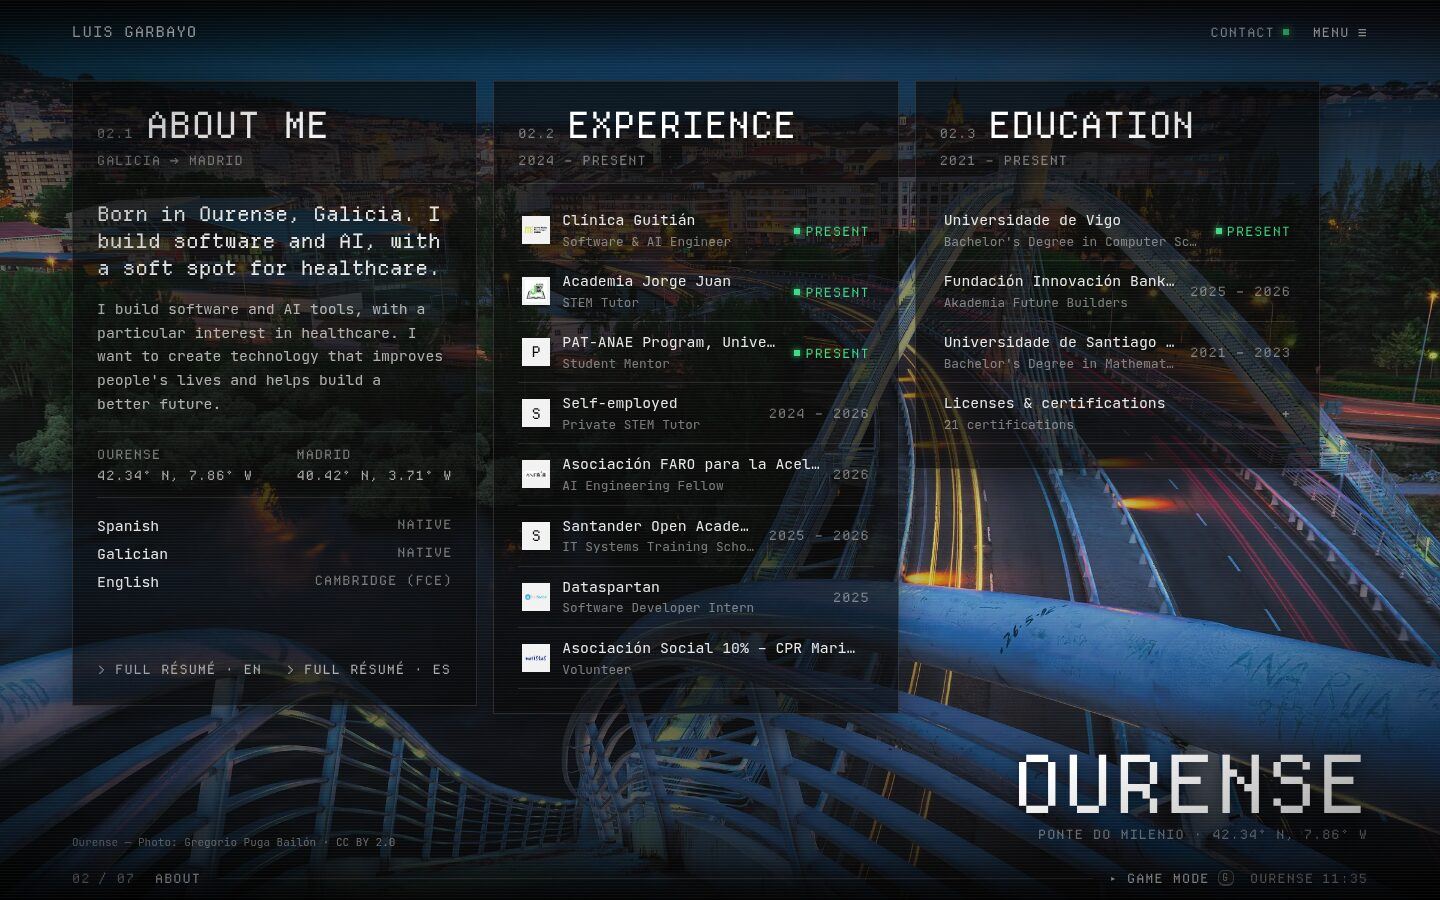
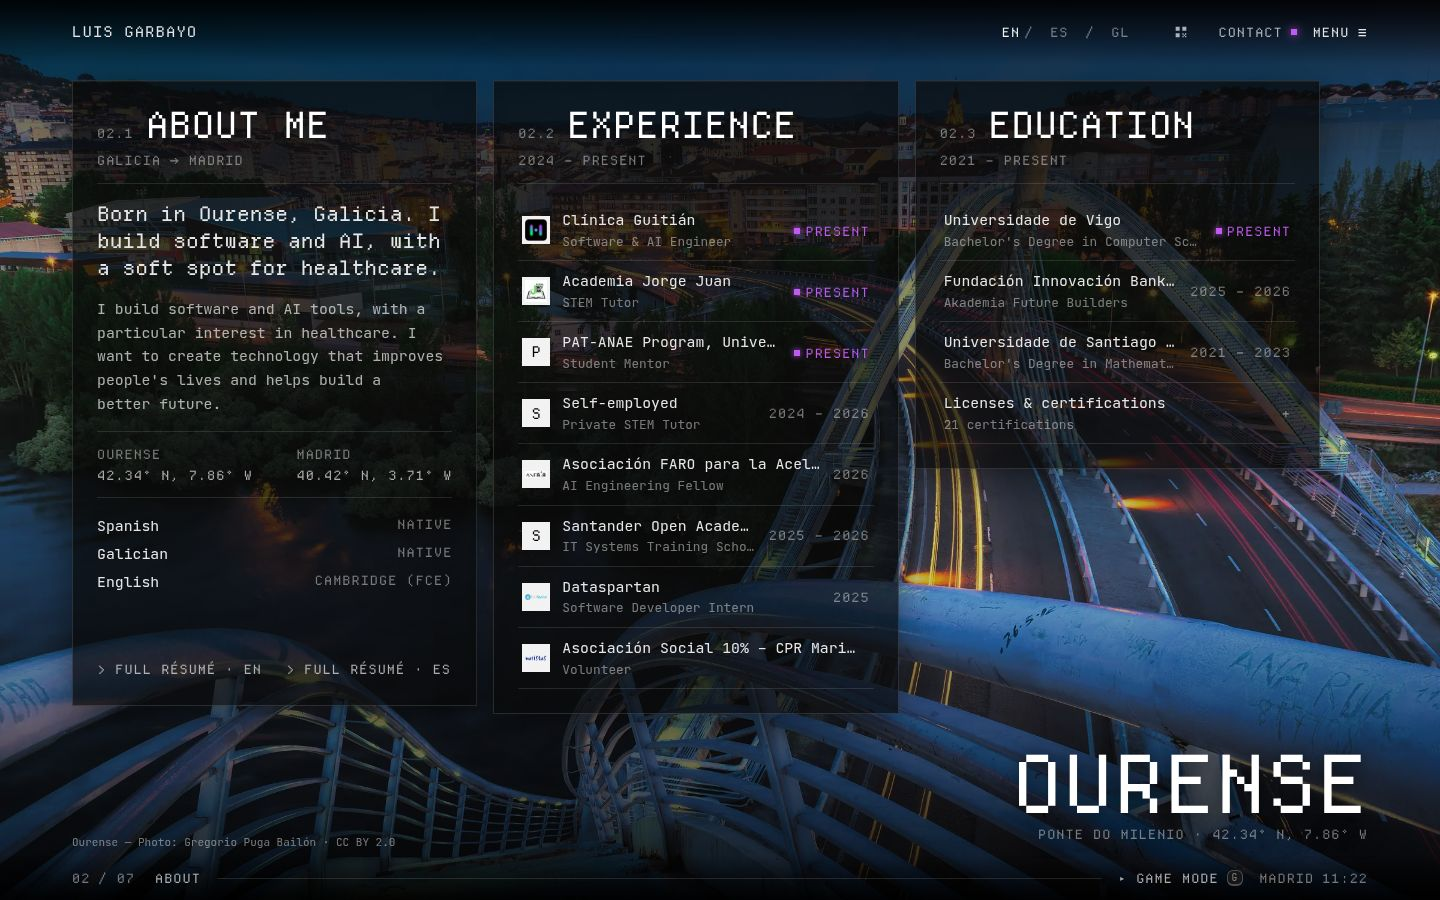
docs(readme): ponerlo al día con el rediseño
Terminal y retrato a color en el hero, ventana de Safari en proyectos,
ciudades y 3D también en móvil, las transiciones y los esqueletos de carga,
páginas enlazadas, Medium y su sincronización, el retrato con SAM y el
favicon. Capturas nuevas del build actual.

diff --git a/README.md b/README.md
@@ -2,9 +2,9 @@
 
 > Software & AI engineering, healthcare technology, and a playable portfolio.
 
-[Visit lgarbayo.com](https://lgarbayo.com) · [Blog](https://lgarbayo.com/en/blog/)
+[Visit lgarbayo.com](https://lgarbayo.com) · [Blog](https://lgarbayo.com/en/blog/) · [Medium](https://medium.com/@lugarbayo)
 
-![Hero: Luis's name on the left, a voxel portrait in the centre and his current role on the right, on a black grid](docs/images/hero.png)
+![Hero: a macOS Terminal window types Luis's name, role and current work on the left; a colour cutout portrait on the right, over a black background of pixels](docs/images/hero.png)
 
 ## About
 
@@ -12,26 +12,38 @@ My personal portfolio brings together my work in software and AI, with a particu
 interest in healthcare and building technology that improves people's lives.
 
 The site is available in **English, Spanish and Galician**, dark only, and styled like a
-screen: a black grid, a pixel typeface, a fixed header and a bottom bar with the current
-section and the time in Ourense. Its original 2D game remains available through
-**Game Mode**, using the same portfolio content as the main website.
+screen: a black background lit by a grid of pixels, a pixel typeface, a header with the
+languages and a QR code, and a bottom bar with the current section and the time in Madrid.
+Some pieces borrow the look of macOS windows — the Terminal in the hero, a Safari window
+for the projects, the detail sheets, the QR and the links page. Its original 2D game
+remains available through **Game Mode**, using the same portfolio content as the main
+website.
 
 ## Website previews
 
+### Home
+
+A Terminal window answers `whoami`, `cat role.txt` and `cat now.md`, typed once per
+visit. Next to it, a colour cutout of my photo drawn by a small WebGL shader: it resolves
+from a coarse mosaic on arrival, follows the cursor like a card (or the tilt of the phone),
+and glitches like a CRT now and then. Nothing in it distorts the face.
+
 ### About, experience and education
 
-Three glass panels over photos of Ourense, A Coruña and Madrid. The section stays pinned
-while the cities change behind it; each entry opens a detail sheet with tasks, photos and
-links.
+Three glass panels over photos of Ourense, A Coruña and Madrid. The photos stay pinned
+while the cities change behind the panels, on every screen size; each change cuts like a
+TV channel. Each entry opens a detail sheet with tasks, photos and links.
 
 ![Three panels — About, Experience, Education — over a dusk photo of the Ponte do Milenio in Ourense](docs/images/about.jpg)
 
 ### Selected work
 
-A numbered list of featured projects next to a tilted screen. Scrolling or picking a
-project changes the screen; *Open +* shows its key points, stack and links.
+A numbered list of featured projects next to a Safari window with the project's address.
+Scrolling or picking a project changes the window; *Open +* shows its key points, stack
+and links. On phones the list becomes a row of numbers above the window. Below, the
+rest of the projects and other activities.
 
-![Selected work: a list of eight projects and the Agentic Smart Health viewer on a tilted screen](docs/images/projects.png)
+![Selected work: a list of six projects and the Agentic Smart Health viewer in a Safari window](docs/images/projects.png)
 
 ### Interactive stack
 
@@ -48,52 +60,73 @@ A dotted globe facing Galicia draws the route Ourense → A Coruña → Madrid.
 
 ![Contact: email, links and résumé on the left, a dotted globe with the route on the right](docs/images/contact.png)
 
-On mobile the portrait is a still image and the header menu provides section navigation.
+On mobile the Terminal sits above the portrait, and the header menu holds the sections
+and the languages.
 
-<img src="docs/images/hero-mobile.png" alt="Mobile hero with the name, the voxel portrait and the current role" width="390" />
+<img src="docs/images/hero-mobile.png" alt="Mobile hero: the Terminal window with the name and role above the colour portrait" width="390" />
 
 </details>
 
 Screenshots are stored in `docs/images/` and show the local production build.
 
+## Motion
+
+- **Between pages:** the screen dissolves into pixel blocks, the new page loads behind
+  them, and it comes back with a CRT flicker.
+- **Between sections:** while scrolling, the edge between two sections breaks into pixels
+  and a scan band rolls down the screen; when you stop, the blocks switch off and nothing
+  is left on top of the content. Section titles type themselves the first time they show.
+- **While loading:** images, the portrait, the keyboard and the CV viewer show pixel
+  skeletons — the portrait's is a block silhouette of the cutout.
+
+Everything has a still fallback: with reduced motion, without WebGL or without JavaScript
+the same content is there, without the effects.
+
 ## Portfolio sections
 
-1. **Home:** name, a voxel portrait built from a photo, and the current role and degree.
+1. **Home:** the Terminal with name, role and what I am doing now, and the portrait.
 2. **About:** About, Experience and Education as panels over three cities, with
    languages, certifications and English/Spanish CVs.
-3. **Projects:** featured work on a tilted screen, more projects and other activities.
+3. **Projects:** featured work in a Safari window, more projects and other activities.
 4. **Stack:** an interactive keyboard and technology categories.
 5. **In the press:** coverage in HISTORA, Faro de Vigo, La Voz de Galicia, Atlántico and La Región.
-6. **Blog:** the latest articles; the full index and localized RSS feeds live under `/blog`.
+6. **Blog:** the latest articles; the full index, tag pages and localized RSS feeds live
+   under `/blog`, with a link to my articles on Medium.
 7. **Contact:** email (click to copy), links and the globe.
+
+Every page links to the others: subpages have a way back and a breadcrumb, and end with
+cards to the next place to go (previous and next article, the blog index, home, the links
+page). `/links` — where the QR in the header points — gathers every channel in one list.
 
 ## Game Mode
 
 Inspired by the **iconic worlds of Super Mario Bros**, the game features custom-designed
 character sprites and four worlds — about, projects, experience and contact — that blend
 nostalgia with the portfolio. Its panels share the website's profile, projects,
-experience, education, languages, certifications, activities and press links.
+experience, education, languages, certifications, activities and press links. It plays
+with the keyboard or with touch controls.
 
 ![Sprite sheet: four frames of a pixel-art character with brown hair and a blue jumper — standing, walking, jumping and facing forward](public/assets/sprites/player.png)
 
 ## Tech Stack
 
-**Astro** and **TypeScript** for the site, **Phaser 3** for the game, **GSAP** and
-**Three.js** for the motion layer. Titles and labels use **Departure Mono**; body text
-uses **JetBrains Mono**.
+**Astro** and **TypeScript** for the site, **Phaser 3** for the game, **Three.js** for
+the keyboard and the globe, **GSAP** for the reveals, and plain WebGL for the portrait.
+Titles and labels use **Departure Mono**; body text uses **JetBrains Mono**.
 
-The engines load on demand: Phaser only when you open game mode, Three.js only for the
-hero portrait, the keyboard and the globe — on desktop, with WebGL and without reduced
-motion; everyone else gets a still image of the same scene. `npm run build` fails if
-either engine ends up in a page's initial payload.
+The engines load on demand: Phaser only when you open game mode, Three.js only when the
+keyboard or the globe is about to scroll into view — on any device, with WebGL and without
+reduced motion; everyone else gets the same content without the 3D. `npm run build` fails
+if either engine ends up in a page's initial payload.
 
 ## Development
 
 ```bash
 npm install
-npm run dev      # local dev server
-npm run build    # type check, build, translation coverage, asset and bundle checks
-npm run preview  # serve the production build
+npm run dev          # local dev server
+npm run build        # type check, build, translation coverage, asset and bundle checks
+npm run preview      # serve the production build
+npm run medium:sync  # refresh the saved copy of the Medium feed
 ```
 
 The development server defaults to `http://localhost:4321`. Opening `/` selects
@@ -111,13 +144,14 @@ npm run coverage:i18n
 ```text
 src/
   content/      portfolio content as validated collections (one file per entry, per locale)
+  data/         a saved copy of the Medium feed, used when Medium does not answer
   i18n/         interface strings (en.json is the contract; es.json and gl.json translate it)
-  components/   layout, sections, the header menu and the bottom bar
+  components/   layout, sections, the header menu, the bottom bar and page links
   game/         the Phaser game — host.ts is its only entry point
-  lib/          shared data and client behaviour (sections, places, press, 3D, game lifecycle)
+  lib/          shared data and client behaviour (sections, transitions, portrait, 3D, game)
 public/assets/  committed images, logos, flags, city photos and game assets
 docs/images/    website screenshots used in this README
-scripts/        build-time checks and the portrait and globe asset generators
+scripts/        build-time checks, the Medium sync and the portrait and globe generators
 ```
 
 Adding a project, a job or a blog post means adding a file under `src/content/` — no
@@ -156,6 +190,11 @@ page rather than raw XML — that is `public/rss/styles.xsl`, a stylesheet the b
 on its own, leaving the file itself untouched for feed readers. The Blog section and menu
 entry appear only once a published post exists.
 
+**Medium.** I also publish on [Medium](https://medium.com/@lugarbayo). The blog and the home
+page link to it, and the links page shows it next to the blog with its article count. The
+build reads the Medium RSS feed (`src/lib/medium.ts`); if Medium does not answer, it uses the
+copy in `src/data/medium-feed.xml`, which `npm run medium:sync` refreshes.
+
 ## Analytics
 
 Google Analytics 4, and it stays off unless you turn it on. The whole thing hangs off one
@@ -187,20 +226,20 @@ advertising signals stay denied for good and are never asked about.
 
 ## Generated media
 
-Everything the site serves is committed, so a build never runs a model or downloads
-anything. Two scripts regenerate the generated pieces; their sources live in the
-gitignored `assets-src/`.
+Everything the site serves is committed, so a build never runs a model; the only thing
+it fetches is the Medium feed, and it has a saved copy for when that fails. Two scripts
+regenerate the generated pieces; their sources live in the gitignored `assets-src/`.
 
-**Hero portrait** — `scripts/portrait/make_portrait.py` turns
-`assets-src/portrait/luis-source.jpg` into `public/assets/ui/portrait-voxels.png`, an
-88×105 image where each pixel is a cube (red: grey level, green: depth, blue: mask), plus
-`hero-portrait.webp`, the same grid drawn flat for mobile and reduced motion. The person
-mask comes from DeepLabV3 (torchvision) and the depth from Depth Anything V2; both are
-cached next to the source, so tuning contrast does not need a GPU.
+**Hero portrait** — `scripts/portrait/make_portrait.py` cuts the person out of
+`assets-src/portrait/luis-source.jpg` with SAM (Segment Anything, ViT-H), using a box and a
+few positive and negative points, and writes `public/assets/ui/portrait.webp` (the colour
+cutout with alpha, which is also the still fallback) and `portrait.json` (its size and the
+block silhouette used as its loading skeleton). The mask is cached next to the source, so
+reframing does not need a GPU.
 
 ```bash
-python scripts/portrait/make_portrait.py            # uses the cached mask and depth
-python scripts/portrait/make_portrait.py --refresh  # runs both models again (CUDA if available)
+python scripts/portrait/make_portrait.py            # uses the cached mask
+python scripts/portrait/make_portrait.py --refresh  # runs SAM again (CUDA if available)
 ```
 
 **Contact globe** — `scripts/globe/make_globe.py` rasterizes Natural Earth's 1:50m land
@@ -210,6 +249,9 @@ samples into dots, and draws the static `contact-globe.webp`.
 **City photos** — `public/assets/places/` holds the three backgrounds of the About section,
 resized and slightly darkened. Their authors, licences and source pages are in
 `public/assets/places/sources.json` and are credited on the page.
+
+**Favicon** — a minifigure of me, cut out with the same SAM model and cropped to the head
+and shoulders, in the three sizes the site uses (`public/favicon-16.png`, `-32` and `-180`).
 
 ## License
 
@@ -224,5 +266,6 @@ MIT — see [LICENSE.md](LICENSE.md).
 - **City photos** (Wikimedia Commons): *Ponte do Milenio, Ourense* by Gregorio Puga Bailón (CC BY 2.0);
   *Torre de Hércules* by Galajatuna (CC BY-SA 3.0 ES); *Edificio España and Gran Vía at night* by Tim Adams (CC BY 3.0)
 - **Land polygons**: [Natural Earth](https://www.naturalearthdata.com), public domain
+- **Segmentation**: [Segment Anything](https://github.com/facebookresearch/segment-anything) (SAM ViT-H), Apache 2.0
 - **Game Inspiration**: Super Mario Bros® is a registered trademark of Nintendo Co., Ltd.
   This project is a personal portfolio and is not affiliated with, endorsed by, or connected to Nintendo.
